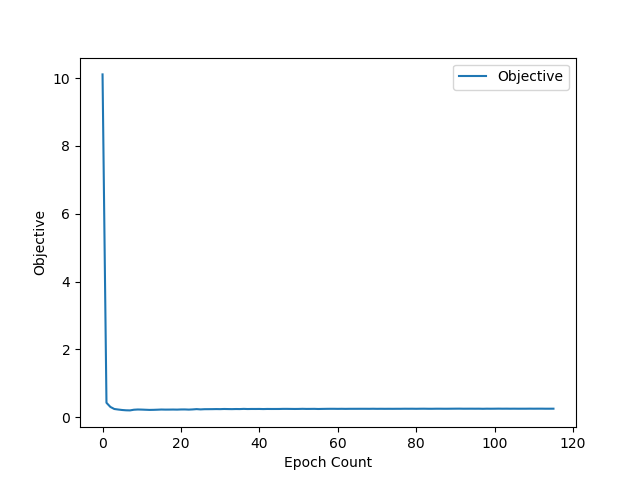
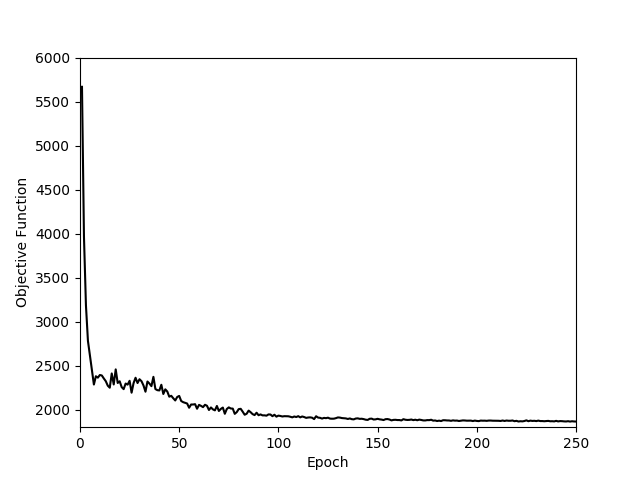
Debugged Pegasos, Recalculated Objective Function, Added Plots
Hey all-

I found a few bugs in the Pegasos algorithm file.  I redid the plots for the error rates and objective function.  They now match very closely to the SVM results.  All of the fixes have been reported in the Overleaf file, too.

-Peter

diff --git a/Pegasos.py b/Pegasos.py
@@ -1,13 +1,14 @@
 import numpy as np
 import time
 from Predictor import Predictor
+import matplotlib.pyplot as plt
 #from sklearn import svm
 import DataProcessor
 
 ## Utilize sklearn's SVM program to classify individuals earning less
 ## or more than 50K/year.
 
-def DevError(weightVector, data, target):
+def DevError(weightVector, bias, data, target):
  
         i = 0
         positiveResults = 0
@@ -15,8 +16,7 @@ def DevError(weightVector, data, target):
 
         for row in data:
             #row = row
-            
-            if target[i] * np.dot(row, weightVector) <= 0:
+            if target[i] * (np.dot(row, weightVector) + bias) <= 0:
                 # <= 50
                errors += 1
             
@@ -25,54 +25,80 @@ def DevError(weightVector, data, target):
         error_rate = errors / len(data)        
         return error_rate
 
-def Pegasos(data, target, devData, devTarget, cParam = 1, _kernel='linear', _degree=1, _coef0=0):
+def Pegasos(data, target, devData, devTarget):
 
-    nCount = len(data[0])
-    weightVector = np.zeros(nCount)
+    nCount = len(data)
+    weightVector = np.zeros(len(train_data[0]))
+    bias = 0
     cParam = 1
     lambdaVar = 1 / (nCount * cParam)
     currentTrainingCount = 1
-    epochCount = 0
-    totalEpoch = 6
+    epochCount = 1
+    totalEpoch = 250
+##    supportVectors = 0
+    startTime = time.time()
+    objective = []
+    train_Error = []
+    dev_Error = []
+    epoch = []
 
     while epochCount <= totalEpoch:
 
           errors = 0
-
-          startTime = time.time()
           for i in range(0, nCount):
        
-              learningRate = 1 / (lambdaVar / currentTrainingCount)
+              learningRate = 1 / (lambdaVar * currentTrainingCount)
 
-              if (target[i] * np.dot(data[i], weightVector)) < 1:
+              if target[i] * (np.dot(data[i], weightVector) + bias) < 1:
 
-                  weightVector = weightVector - learningRate * (lambdaVar * weightVector - weightVector * data[i])
+                  weightVector = weightVector - learningRate * (lambdaVar * weightVector - target[i] * data[i])
+                  bias = bias - learningRate * (lambdaVar * bias - target[i])
+##                  supportVectors += 1
 
               else:
                   weightVector = weightVector - learningRate * lambdaVar * weightVector
-
+                  bias = bias - learningRate * lambdaVar * bias
+              
               currentTrainingCount += 1
 
           endTime = time.time()       
           epochCount += 1
 
-          trainError = DevError(weightVector, data, target)
-          devError = DevError(weightVector, devData, devTarget)
+          trainError = DevError(weightVector, bias, data, target)
+          devError = DevError(weightVector, bias, devData, devTarget)
           
-          print("The dev error rate is {:.2%} for epoch = %d", devError, epochCount)
+          print("The dev error rate is {:.2%} for epoch = {:1d}".format(devError, epochCount))
 
-          print("The Training error rate for epoch %d is %f ", epochCount, trainError )
+          print("The Training error rate is {:.2%} for epoch = {:1d} ".format(trainError, epochCount))
       
-          print("The Pegasos ran for %s seconds" % (endTime - startTime))
-          #print("The number of support vectors are: ", str(len(clf.support_vectors_)))
+          print("The Pegasos ran for {:.2f} seconds".format((endTime - startTime)))
 
-    return weightVector
+##          print(str(supportVectors))
+
+          objective.append(objective_function(weightVector, bias, data, target, cParam))
+          train_Error.append(100 * trainError)
+          dev_Error.append(100 * devError)
+          epoch.append(epochCount - 1)
+    
+    return weightVector, objective, train_Error, dev_Error, epoch
+
+def objective_function(model, bias, train_data, target, cParam = 1):
+    totalSlack = 0
+    for j in range(len(train_data)):
+        slack = 1 - target[j] * (model.dot(train_data[j]) + bias)
+        if slack > 0:
+            totalSlack += slack
+        
+    objective = 0.5 * (model.dot(model.T) + bias * bias) + cParam * totalSlack
+
+    print("The minimized objective function value is {:.2f}".format(objective))
+    return objective
 
 def test(dataSet, data, model, bias, cParam = 1):
     errors = sum(y * (model.dot(vecx) + bias) <= 0 for vecx, y in data)
     error_rate = errors / len(data)
 
-    print("The", dataSet, "error rate is {:.2%} for C = {:.2f}".format(error_rate[0], cParam))
+    print("The", dataSet, "error rate is {:.2%} for C = {:.2f%}".format(error_rate[0], cParam))
 
 
 if __name__ == "__main__":
@@ -82,15 +108,17 @@ if __name__ == "__main__":
     train_data, train_target = DataProcessor.map_data(train_file, feature2index)
     dev_data, dev_target = DataProcessor.map_data(dev_file, feature2index)
 
-    _kernel = int(input("Kernel [1: linear | 2: quadratic] > "))
-    kernel = 'linear'
-    degree = 1
-    coef0 = 0
-    if _kernel == 2:
-        kernel = 'poly'
-        degree = 2
-        coef0 = 1
+    weightVector, objective, trainError, devError, epoch = Pegasos(train_data, train_target, dev_data, dev_target)
 
-    while True:
+    plt.plot(epoch, trainError, 'r-', epoch, devError, 'k-')
+    plt.legend(('Training Set', 'Dev Set'))
+    plt.axis([0, 250, 15, 25])
+    plt.xlabel('Epoch')
+    plt.ylabel('Error Rate, %')
+    plt.show()
 
-          w = Pegasos(train_data, train_target, dev_data, dev_target)
+    plt.plot(epoch, objective, 'k-')
+    plt.axis([0, 250, 1800, 6000])
+    plt.xlabel('Epoch')
+    plt.ylabel('Objective Function')
+    plt.show()
